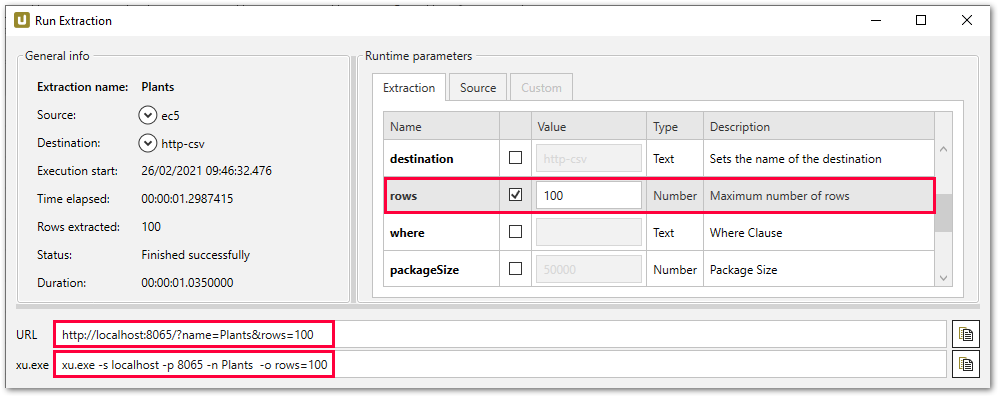
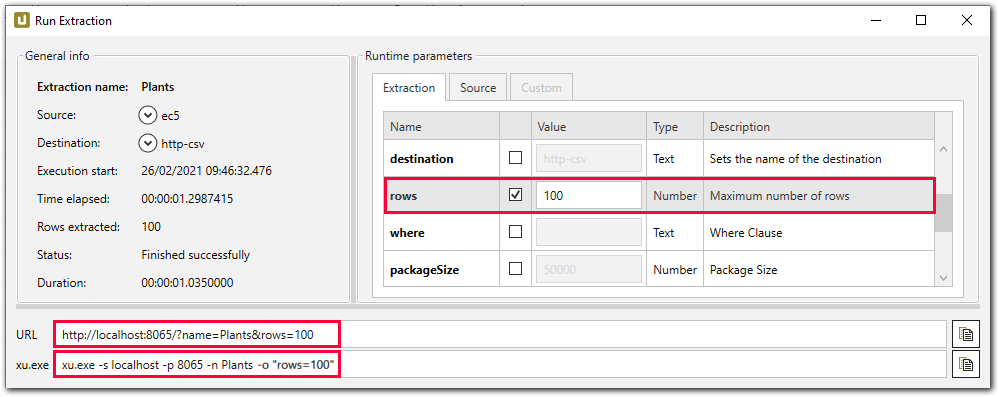
xu.exe new parameter syntax

Changed region(s): [[0.0, 0.0, 1.0, 0.9975], [0.2482, 0.8161, 0.3413, 0.937]]

diff --git a/content/_de/xtract-universal/extraktionen-ausfuehren-und-einplanen/call-via-commandline.md b/content/_de/xtract-universal/extraktionen-ausfuehren-und-einplanen/call-via-commandline.md
@@ -28,7 +28,7 @@ Das Kommandozeilen-Tool *xu.exe* verbindet sich zu einem Xtract Universal Server
 | -n   |  Name der Extraktion  | `C:\Program Files\XtractUniversal\xu.exe -n <name>` |
 |   -s       |  Der Name oder die IP des Rechners, auf dem der Xtract Universal Service läuft. Der Standardwert ist localhost. Den aktuellen Wert finden Sie im "Run" Fenster des [Designers](../erste-schritte/designer-overview#hauptmenüleiste-1).|  `xu.exe -n <name> -s <host>`|
 | -p    | Der Port, unter dem der Xtract Universal Service läuft. Der Standardwert ist 8065. <br> Den aktuellen Wert finden Sie im "Run" Fenster des [Designers](../erste-schritte/designer-overview#hauptmenüleiste-1)  | `xu.exe -n <name> -s <host> -p <port>` |
-|  -o     | Parameter, deren Werte beim Ausführen der Extraktion gesetzt werden sollen. <br> Es können mehrere Parameter verwendet werden. | `xu.exe -n <name> -s <host> -p <port> -o param1=<wert1> -o param2=<wert2>`|
+|  -o     | Parameter, deren Werte beim Ausführen der Extraktion gesetzt werden sollen. <br> Es können mehrere Parameter verwendet werden. | `xu.exe -n <name> -s <host> -p <port> -o "param1=<wert1>" -o "param2=<wert2>"`|
 |  -e  | Verwendet [Transport Layer Security (TLS)](https://docs.microsoft.com/en-us/windows/win32/secauthn/transport-layer-security-protocol) (1.2 oder höher) für die Transportsicherheit. |   `xu.exe  -n <name> -s <host> -p <port> -e`|
 | -a    |Bricht alle aktuell laufenden Instanzen der angegebenen Extraktion ab. | `xu.exe -a` |
 |  -c   | Löscht den Result-Cache (Ergebnis Cache) für die angegebene Extraktion und deren Optionen.<br> Dies gilt nur für [Pull-Destinationen](../destinationen#pull--und-push-destinationen). | `xu.exe -c` |  
@@ -37,8 +37,8 @@ Das Kommandozeilen-Tool *xu.exe* verbindet sich zu einem Xtract Universal Server
 Rufen Sie das Kommandozeilen-Tool in folgender Form auf, um eine Extraktion auf dem Xtract Universal Server zu starten:
 ```
     xu.exe -n MaterialText
-    xu.exe -n MaterialText -s 10.0.0.42 -p 80 -o rows=1000
-    xu.exe -n MaterialText -s xusrv.corp.local -p 443 -o rows=1000 -o SPRAS=D -e
+    xu.exe -n MaterialText -s 10.0.0.42 -p 80 -o "rows=1000"
+    xu.exe -n MaterialText -s xusrv.corp.local -p 443 -o "rows=1000" -o "SPRAS=D" -e
     xu.exe -n MaterialText -a
     xu.exe "http://localhost:8065/?name=MaterialText&rows=1000"
 ```

diff --git a/content/_en/xtract-universal/execute-and-automate-extractions/call-via-commandline.md b/content/_en/xtract-universal/execute-and-automate-extractions/call-via-commandline.md
@@ -29,7 +29,7 @@ The command line tool connects to an Xtract Universal server (service) and start
 | -n   |  Name of the extraction  | `C:\Program Files\XtractUniversal\xu.exe -n <name>` |
 |   -s       |  The name or IP address of the machine on which the Xtract Universal service runs. The default is localhost. You can find the current value in the "Run" window of the [Designer](../getting-started/designer-overview#main-menu-bar-1).|  `xu.exe -n <name> -s <host>`|
 | -p    | The port on which the Xtract Universal service runs. The default is 8065. <br> You can find the current value in the "Run" window of the [Designer](../getting-started/designer-overview#main-menu-bar-1).  | `xu.exe -n <name> -s <host> -p <port>` |
-|  -o     | Parameters to be set when running the extraction. <br> Multiple parameters can be set. | `xu.exe -n <name> -s <host> -p <port> -o param1=<wert1> -o param2=<wert2>`|
+|  -o     | Parameters to be set when running the extraction. <br> Multiple parameters can be set. | `xu.exe -n <name> -s <host> -p <port> -o "param1=<wert1>" -o "param2=<wert2>"`|
 |  -e  | Use [Transport Layer Security (TLS)](https://docs.microsoft.com/en-us/windows/win32/secauthn/transport-layer-security-protocol) (1.2 or higher). |   `xu.exe  -n <name> -s <host> -p <port> -e`|
 | -a    |Cancel all running instances of the extraction. | `xu.exe -a` |
 |  -c   | Clear the result cache and options of the extraction. <br> This only works with [Pull Destinations](../destinations#pull-and-push-destinations). | `xu.exe -c` |  
@@ -38,8 +38,8 @@ The command line tool connects to an Xtract Universal server (service) and start
 To run an extraction on the Xtract Universal server, call the command line tool as follows:
 ```
     xu.exe -n MaterialText
-    xu.exe -n MaterialText -s 10.0.0.42 -p 80 -o rows=1000
-    xu.exe -n MaterialText -s xusrv.corp.local -p 443 -o rows=1000 -o SPRAS=D -e
+    xu.exe -n MaterialText -s 10.0.0.42 -p 80 -o "rows=1000"
+    xu.exe -n MaterialText -s xusrv.corp.local -p 443 -o "rows=1000" -o "SPRAS=D" -e
     xu.exe -n MaterialText -a
     xu.exe "http://localhost:8065/?name=MaterialText&rows=1000"
 ```
